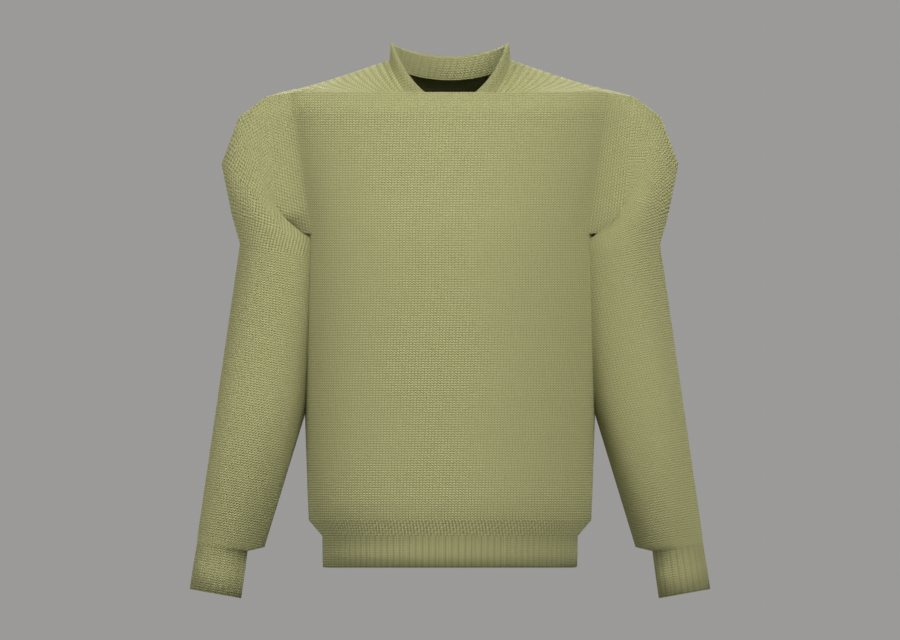
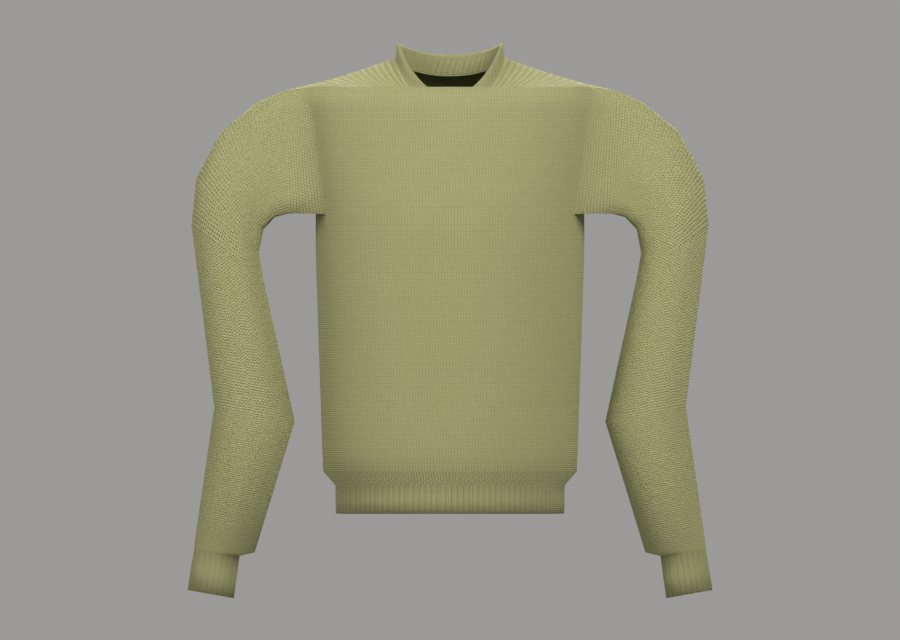
feat(garment-blender): manga cai em torno da articulação do ombro e veste no provador
A queda da manga gira em torno de um pivô 5 cm para dentro da ponta do ombro e 12 cm
abaixo, entrando ao longo de 25 cm. Medido no provador (meshy-real.test.ts): o suéter M a
80° passou de 6 % de furos na axila para 1,3 %, esticamento 1,12; suéter, moletom careca e
camiseta vestem em P, M e GG, e o moletom com zíper sem o capuz também. A manga caída a 80°
vira o padrão do .glb (é a pose do avatar), e o capuz fica levantado por padrão (o
abaixado atravessa as costas). Prévias, capturas e o estado atualizados.

Claude-Session: https://claude.ai/code/session_01Ro1Vbq1VQcDAjFEjZPmVEV

diff --git a/services/garment_blender/garment_blender/spec.py b/services/garment_blender/garment_blender/spec.py
@@ -49,9 +49,9 @@ class GarmentSpec:
     ribana: bool = True               # barra e punho em ribana (sweater, moletom)
     manga_curta: bool = False
     cor_ziper: str = "#a7a9ac"        # dentes e cursor (metal)
-    angulo_manga: float = 0.0         # graus abaixo da horizontal: 0 = pose T (o provador gira a manga até o braço); 80 = pose de exibição
+    angulo_manga: float = 80.0        # graus abaixo da horizontal: 80 = braço do avatar na pose de exibição; 0 = pose T
     passantes: bool = False           # calça: passantes de cinto no cós
-    capuz_abaixado: bool = True       # capuz deitado nas costas (o avatar não o veste na cabeça)
+    capuz_abaixado: bool = False      # capuz deitado nas costas (experimental: atravessa as costas no provador)
     medidas_marca: dict[str, float] = field(default_factory=dict)
 
     @property
@@ -104,9 +104,9 @@ def parse(raw: dict, size: str | None = None) -> GarmentSpec:
         fechamento=_pick(raw.get("fechamento", "nenhum"), CLOSURES, "fechamento"),
         bolsos=tuple(_pick(p, POCKETS, "bolso") for p in raw.get("bolsos", [])),
         ribana=bool(raw.get("ribana", True)), manga_curta=bool(raw.get("manga_curta", False)),
-        angulo_manga=float(raw.get("angulo_manga", 0.0)),
+        angulo_manga=float(raw.get("angulo_manga", 80.0)),
         cor_ziper=str(raw.get("cor_ziper", "#a7a9ac")).lower(), passantes=bool(raw.get("passantes", False)),
-        capuz_abaixado=bool(raw.get("capuz_abaixado", True)),
+        capuz_abaixado=bool(raw.get("capuz_abaixado", False)),
         medidas_marca=measures)
     if not HEX.match(spec.cor_ziper):
         raise ValueError("cor_ziper precisa ser #rrggbb")

diff --git a/services/garment_blender/garment_blender/sleeves.py b/services/garment_blender/garment_blender/sleeves.py
@@ -15,6 +15,10 @@ from .sizes import TopMeasures
 SLOPE = 0.03          # queda da linha de cima da manga (m por m)
 SLEEVE_RATIO = 0.85   # profundidade/altura da seção da manga
 CAP = 0.15            # da cava até o bíceps a seção muda aos poucos da forma da cava para a da manga (m)
+# Queda da manga: o pivô é a articulação do ombro (5 cm para dentro da ponta do ombro e 12 cm abaixo dela) e o giro
+# entra ao longo de 25 cm. Medido no provador (meshy-real.test.ts, suéter M a 80°): pivô na ponta do ombro furava a
+# axila (6 %); aqui, 1,3 % de furos e esticamento 1,12, aceito em P, M e GG.
+JOINT_IN, JOINT_DOWN, DROP_RAMP = 0.05, 0.12, 0.25
 
 
 def _stations(m: TopMeasures, loop_perimeter: float, ribbed: bool) -> list[tuple[float, float, str]]:
@@ -134,8 +138,8 @@ def bend(mesh: Mesh, side: int, m: TopMeasures, y_shoulder: float, angle: float)
         (sleeve if p == part else torso).update(f)
     moving = sorted(sleeve - torso)
     x_sp = m.ombro * 0.01 / 2
-    pivot = np.array([side * (x_sp - 0.02), y_shoulder - 0.05])
-    x0, x1 = x_sp - 0.01, x_sp + CAP
+    pivot = np.array([side * (x_sp - JOINT_IN), y_shoulder - JOINT_DOWN])
+    x0, x1 = x_sp - 0.01, x_sp + DROP_RAMP
     a = np.radians(angle) * -side
     for i in moving:
         x, y, z = mesh.verts[i]

diff --git a/services/garment_blender/README.md b/services/garment_blender/README.md
@@ -42,20 +42,23 @@ Cada tamanho gera, em `saida/<tamanho>/`: o `modelo.glb` (metros, Y para cima, f
   pespontos dos bolsos e da braguilha) afundam 0,9 mm na direção de dentro: o vinco aparece na luz.
 - **Conferência:** `measure.py` corta a malha por planos e mede os perímetros; o relatório traz ficha × malha.
 
-## Estado no provador (24/11/2026, corpo padrão, manga gerada na horizontal)
+## Estado no provador (24/11/2026, corpo padrão, manga caída a 80°)
 
-Com `medidaReal`, o provador usa escala 1 e não estica a peça em profundidade por faixa (o passo feito para a Meshy
-rasa estufava o tronco em faixas); só a colisão a tira de dentro da pele. Medido offline (`meshy-real.test.ts`):
+Com `medidaReal`, o provador usa escala 1, conta o tamanho escolhido a partir do tamanho gerado (não do corpo) e não
+estica a peça em profundidade por faixa (o passo feito para a Meshy rasa estufava o tronco); só a colisão a tira de
+dentro da pele. A manga cai até o ângulo do braço do avatar girando em torno da articulação do ombro (5 cm para dentro
+da ponta do ombro, 12 cm abaixo; `JOINT_IN`, `JOINT_DOWN`, `DROP_RAMP` em `sleeves.py`). Medido offline
+(`meshy-real.test.ts`):
 
 | Peça | P / 36 | M / 40 | GG / 46 |
 |---|---|---|---|
 | Calça cargo, calça joelho duplo | veste | veste | veste |
+| Suéter (Stockton) | veste (esticada 1,12, furos 1,3 %) | veste | veste |
 | Moletom careca (Script) | veste | veste | veste |
-| Suéter (Stockton) | veste | veste | furos 3,3 % (limite 3 %) |
-| Camiseta (sacai) | veste | furos 3,3 % | furos 3,2 % |
-| Moletom com capuz | recusado: o capuz é furado pela cabeça (5–15 %) e estica | | |
+| Camiseta (sacai) | veste | veste | veste |
+| Moletom com zíper, sem o capuz | veste | veste | veste |
+| Moletom com capuz | recusado: o capuz levantado estica (1,85) e fura (5–7 %); o abaixado atravessa as costas | | |
 
-No laboratório (corpo de referência), as cinco capturas de cima vestiram. O que ainda está errado: o giro da manga
-feito pelo provador deixa a ponta do ombro em bico e a manga larga. A manga caída feita no Blender (`--angulo 80`)
-fica certa na prévia, mas no provador fura na axila (5–7 %) e, com o aceite afrouxado, a tela mostrou a peça
-deformada: o aceite não foi afrouxado. Evidências em `docs/provador/garment-blender/2026-11-24/`.
+O que ainda está errado: o capuz precisa de encaixe próprio no provador (preso à nuca, não embrulhado no corpo); a
+ponta do ombro da camiseta ainda fica em bico; bordados e etiquetas não são modelados. Evidências em
+`docs/provador/garment-blender/2026-11-24/`.

diff --git a/docs/provador/garment-blender/2026-11-24/README.md b/docs/provador/garment-blender/2026-11-24/README.md
@@ -14,15 +14,14 @@ produto quando havia) e detalhes de construção.
 | Carhartt WIP x Nicholas Daley Cargo Pant | Carhartt WIP | cós com passantes, braguilha em J e botão, bolsos faca, traseiros e cargo com lapela | sarja | quadril 107,3 (108), coxa 69,5 (69,6), entreperna 81 (81) |
 | Carhartt WIP x Nicholas Daley OG Double Knee Pant | Carhartt WIP | cós com passantes, braguilha, bolsos faca e traseiros, joelho duplo | sarja | quadril 103,4 (104), coxa 65,5 (65,6) |
 
-- `00-pecas-geradas-frente.jpg` e `<peça>-frente.jpg` / `<peça>-tres-quartos.jpg`: prévias em Cycles com a manga caída
-  (`--angulo 80`).
-- `01-provador-folha.jpg` e `provador-*.jpg`: as peças vestidas no laboratório do provador (corpo de referência), em
-  escala real e sem o estiramento em profundidade da Meshy, nos tamanhos indicados no nome. O `.glb` do provador sai
-  com a manga na horizontal.
-- `02-provador-manga-caida-recusada-na-tela.jpg`: a manga caída feita no Blender com o aceite de furos afrouxado para
-  8 %: passa no número, mas a tela mostra o tronco estufado e a camiseta serrilhada — por isso o aceite não foi
-  afrouxado.
+- `00-pecas-geradas-frente.jpg` e `<peça>-frente.jpg` / `<peça>-tres-quartos.jpg`: prévias em Cycles, com a manga caída
+  a 80° em torno da articulação do ombro (o mesmo `.glb` que vai ao provador).
+- `01-provador-folha.jpg` e `provador-*.jpg`: a prévia do suéter e as peças de cima vestidas no laboratório do provador
+  (corpo de referência), em escala real, tamanho M.
+- `02-provador-manga-caida-recusada-na-tela.jpg`: a primeira manga caída (pivô na ponta do ombro) com o aceite de furos
+  afrouxado para 8 %: passava no número, mas a tela mostrou o tronco estufado — o aceite não foi afrouxado.
+- `03-provador-antes-manga-horizontal.jpg`: antes, com a manga gerada na horizontal e girada pelo provador: ombro em
+  bico e manga em "asa".
 
-O que ainda está errado: nas peças de cima o giro da manga do provador deixa a ponta do ombro em bico e a manga larga
-(a camiseta fica com a manga em aba); os moletons com capuz são recusados (o capuz é furado pela cabeça); o bordado e as
-etiquetas não são modelados.
+O que ainda está errado: os moletons com capuz são recusados (o capuz precisa de encaixe próprio no provador); a ponta
+do ombro da camiseta fica em bico; o bordado e as etiquetas não são modelados.

diff --git a/docs/fai-reconstruction-engine/piloto-e-decisoes.md b/docs/fai-reconstruction-engine/piloto-e-decisoes.md
@@ -224,6 +224,6 @@ aberturas). Motivo imediato: o Stockton Sweater importado da Meshy saía enorme 
   `medidaReal` faz o encaixe usar escala 1 (`realScale` em `lib/avatar3d/human/glb-garment/align.ts`).
 - **Cor:** mediana dos pixels da peça na foto de entrada ou na textura de cor do lote da Meshy já no bucket (só
   leitura); quando não há imagem, a cor da variante, dita na ficha (`observacao`).
-- **Medido no provador (corpo padrão):** calças (cargo e joelho duplo) vestem em 36, 40 e 46; o suéter em P, M e GG; o
-  moletom careca e a camiseta em dois de três tamanhos; os moletons com capuz são recusados (o capuz é furado pela
-  cabeça). O giro da manga no provador ainda deixa o ombro quadrado nas peças de cima.
+- **Medido no provador (corpo padrão):** calças (cargo e joelho duplo), suéter, moletom careca e camiseta vestem em
+  todos os tamanhos, com a manga caída em torno da articulação do ombro; os moletons com capuz são recusados (o capuz
+  precisa de encaixe próprio).
